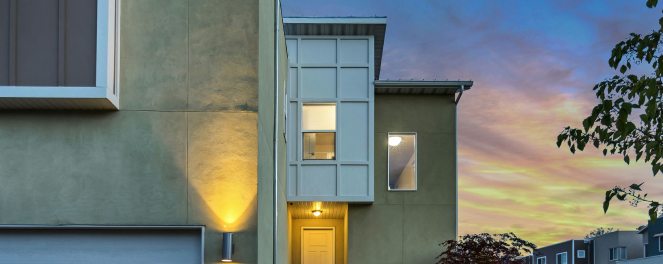
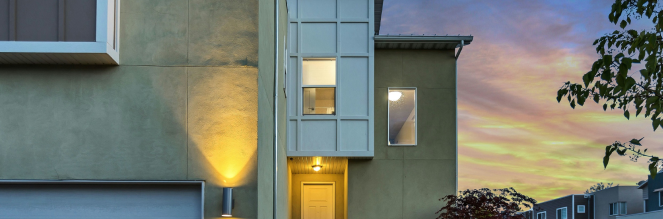
responsiveness changes

diff --git a/Realty-app/src/Components/Home/Home.jsx b/Realty-app/src/Components/Home/Home.jsx
@@ -14,55 +14,65 @@ const Home = () => {
   return (
     <>
       {/* Hero Section */}
-      <div className="mr-16 ml-16 mt-20 flex justify-between">
-        <div>
-          <h1 className="m-0 p-0 font-normal text-4xl">Welcome to</h1>
-          <h1 className="m-0 p-0 text-[6.5rem] font-normal flex-nowrap font-noto">
+      <div className="mx-16 mt-24 md:flex">
+        <div className="mr-8">
+          <h1 className="whitespace-nowrap text-3xl mb-[-2rem]">Welcome to</h1>
+          <h1 className="text-[6rem] md:text-[4rem] lg:text-[6rem] xl:text-[7rem] font-normal font-noto">
             1568&#160;<span className="text-primary font-playFair">Realty</span>
           </h1>
         </div>
-        <img className="" src={heroImg1} alt="Hero Image" />
-      </div>
-
-      <div className="flex justify-between ml-16 mr-16 mt-4">
-        <div>
+        <div className="flex-1">
           <img
-            className="w-[600px] object-cover"
-            src={heroImg2}
+            className="object-cover h-full w-full"
+            src={heroImg1}
             alt="Hero Image"
           />
-          <div className="flex justify-between pl-6 pr-6 mt-4">
-            <p className="flex flex-col text-3xl m-0">
-              0K+<span className="text-base">Happy Customers</span>
+        </div>
+      </div>
+
+      {/* Layer 2 */}
+      <div className="md:flex mx-16 mt-4">
+        <div className="mr-4">
+          <div className="flex-1">
+            <img
+              className="object-cover h-full w-full"
+              src={heroImg2}
+              alt="Hero Image"
+            />
+          </div>
+          <div className="flex justify-between mx-10 mt-4">
+            <p className="flex flex-col text-3xl text-secondary-200">
+              0K+<span className="text-base text-black">Happy Customers</span>
             </p>
-            <p className="flex flex-col text-3xl m-0">
-              000+<span className="text-base">Daily Inquiries</span>
+            <p className="flex flex-col text-3xl text-secondary-200">
+              000+<span className="text-base text-black">Daily Inquiries</span>
             </p>
-            <p className="flex flex-col text-3xl m-0">
-              000+<span className="text-base">Listed Properties</span>
+            <p className="flex flex-col text-3xl text-secondary-200">
+              000+
+              <span className="text-base text-black">Listed Properties</span>
             </p>
           </div>
         </div>
 
         <div>
           <div>
-            <h1 className="m-0 p-0 text-4xl font-normal">Unlock your</h1>
-            <h1 className="m-0 p-0 text-8xl font-normal text-primary">
-              dream home
-            </h1>
-            <h1 className="m-0 p-0 text-4xl font-normal">with us</h1>
+            <h1 className="text-3xl">Unlock your</h1>
+            <h1 className="text-7xl text-primary">dream home</h1>
+            <h1 className="text-4xl">with us</h1>
           </div>
-          <img
-            className="w-[510px] h-[130px] mt-4 object-cover"
-            src={heroImg3}
-            alt="Hero Image"
-          />
+          <div className="flex-1 mt-4">
+            <img
+              className="object-cover h-full w-full"
+              src={heroImg3}
+              alt="Hero Image"
+            />
+          </div>
         </div>
       </div>
 
       {/* Powered by Intelliseven */}
-      <div className="bg-secondary-300 h-40 mb-20 mt-20 max-w-full flex flex-col justify-center items-center">
-        <p className="text-white text-base font-noto">powered by</p>
+      <div className="bg-secondary-300 h-40 my-20 max-w-full flex flex-col justify-center items-center">
+        <p className="text-white text-base font-playFair">powered by</p>
         <img
           className="h-24 mt-[-0.9rem]"
           alt="IntelliSeven Logo"
@@ -71,12 +81,12 @@ const Home = () => {
       </div>
 
       {/* About us Section */}
-      <div className="mb-20">
+      <div>
         <div className="flex justify-center">
-          <h1 className="text-5xl font-normal">Experience&nbsp;</h1>
+          <h1 className="text-5xl font-medium">Experience&nbsp;</h1>
           <div>
-            <h1 className="text-5xl font-normal text-primary">Excellence</h1>
-            <h1 className="text-5xl font-normal">
+            <h1 className="text-5xl font-medium text-primary">Excellence</h1>
+            <h1 className="text-5xl font-medium">
               in Real&nbsp;<span className="text-primary">Estate</span>
             </h1>
             <p className="text-base">Learn more about us</p>
@@ -85,26 +95,29 @@ const Home = () => {
 
         {/* Shape */}
         <div className="flex justify-center my-6">
-          <div className="bg-primary w-0.5 h-52"></div>
+          <div className="bg-primary w-0.5 h-60"></div>
         </div>
 
         {/* About-layer-1 */}
         <div className="flex mx-16 items-center">
           <img
-            className="max-w-full mr-8 mb-10"
+            className="flex-1 object-cover h-full w-full mr-8"
             alt="Property Image"
             src={aboutImg1}
           />
+
           {/* about-description */}
           <div>
-            <h1 className="text-secondary-300 mb-4">About 1568 Realty</h1>
-            <p className="mb-4 text-black">
+            <h1 className="text-secondary-300 text-3xl font-medium mb-5">
+              About <span className="font-noto">1568</span> Realty
+            </h1>
+            <p className="mb-5 text-black">
               We are your trusted partner in finding your dream home. With a
               team of experienced professionals that are dedicated in providing
               excellent service, we pride ourselves on our deep understanding of
               the market and our commitment to our client satisfaction.{" "}
             </p>
-            <p className="mb-10 text-black text-base">
+            <p className="mb-5 text-black text-base">
               With years of experience, we have provided a reputation for
               excellence, integrity, and reliability. Our clients trust us to
               guide them through every step of the buying, selling, or renting

diff --git a/Realty-app/src/Components/Header/Header.jsx b/Realty-app/src/Components/Header/Header.jsx
@@ -1,39 +1,63 @@
 import React from "react";
+import { useState } from "react";
 import mainLogo from "./Logo.png";
-import burger from "./burger.svg";
+// import { AiOutlineMenu, AiOutlineClose } from "react-icons/ai";
+import { RiMenu3Fill, RiCloseLine } from "react-icons/ri";
 
 const Header = () => {
   let Links = [
-    { name: "Home", link: "/home" },
+    { name: "Home", link: "/" },
     { name: "Properties", link: "/" },
     { name: "About Us", link: "/about" },
     { name: "FAQs", link: "/" },
     { name: "Contact Us", link: "/" },
   ];
 
-  return (
-    <header
-      className="fixed left-0 right-0 top-0 mx-auto md:flex md:items-center md:justify-between py-5 md:px-16 px-10 shadow-md transition-all ease-in-out font-playFair z-50"
-      style={{
-        backgroundColor: "#F9F9F9",
-      }}
-    >
-      <div className="flex justify-between items-center">
-        <img
-          className="h-7 inline-block whitespace-nowrap cursor-pointer"
-          src={mainLogo}
-        />
-        <img className="cursor-pointer md:hidden" src={burger} />
-      </div>
+  const [menuState, setMenuState] = useState(false);
 
-      <ul className="md:flex md:items-center md:absolute right-16 md:opacity-100 whitespace-nowrap text-base text-black m-0 p-0 md:opacity-100 opacity-0">
-        {Links.map((link) => (
-          <li className="md:ml-8 my-4 md:my-0 text-base cursor-pointer hover:text-accent">
-            <a href={link.link}>{link.name}</a>
-          </li>
-        ))}
-      </ul>
-    </header>
+  const setMenu = () => {
+    setMenuState(!menuState);
+  };
+
+  return (
+    <div>
+      <header className="fixed left-0 right-0 top-0 flex items-center justify-between w-auto py-5 md:px-16 px-10 shadow-xl font-playFair z-50 bg-white">
+        <img className="h-7 whitespace-nowrap cursor-pointer" src={mainLogo} />
+        <div onClick={setMenu} className="md:hidden cursor-pointer">
+          {menuState ? (
+            <RiCloseLine className="text-primary size-6" />
+          ) : (
+            <RiMenu3Fill className="text-primary size-5" />
+          )}
+        </div>
+
+        <ul className="md:flex md:items-center whitespace-nowrap text-base text-black m-0 p-0 w-full md:w-auto  bg-white hidden">
+          {Links.map((link) => (
+            <li className="md:ml-8 my-5 md:my-0 text-sm cursor-pointer px-16 md:px-0 hover:text-accent">
+              <a href={link.link}>{link.name}</a>
+            </li>
+          ))}
+        </ul>
+      </header>
+
+      {/* side bar */}
+      <div
+        className={
+          menuState
+            ? "fixed left-0 top-0 mt bg-white h-full w-[50%] font-playFair ease-in-out duration-500 md:hidden"
+            : "fixed left-[-200px] h-full font-playFair ease-in-out duration-500"
+        }
+      >
+        <ul className="py-9 px-10">
+          <img className="h-7 cursor-pointer mb-7 " src={mainLogo} />
+          {Links.map((link) => (
+            <li className="text-sm cursor-pointer mb-7 hover:text-accent">
+              <a href={link.link}>{link.name}</a>
+            </li>
+          ))}
+        </ul>
+      </div>
+    </div>
   );
 };
 

diff --git a/Realty-app/src/App.jsx b/Realty-app/src/App.jsx
@@ -9,9 +9,8 @@ const App = () => {
     <>
       <Router>
         <Header />
-        <AboutUs />
         <Switch>
-          <Route exact path="/home">
+          <Route exact path="/">
             <Home />
           </Route>
           <Route path="/about"></Route>

diff --git a/Realty-app/tailwind.config.js b/Realty-app/tailwind.config.js
@@ -21,6 +21,10 @@ export default {
         playFair: ["Playfair Display, serif"],
         noto: ["Noto Serif Display, serif"],
       },
+
+      boxShadow: {
+        xl: ["0 2px 15px rgba(0, 0, 0, 0.10)"],
+      },
     },
   },
   plugins: [],

diff --git a/Realty-app/src/index.css b/Realty-app/src/index.css
@@ -10,7 +10,7 @@
 }
 
 body {
-  height: 3000px;
+  height: 5000px;
 }
 
 p {
